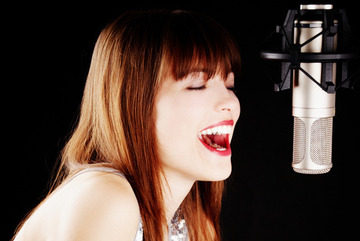
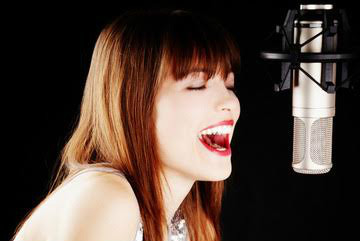
fixed home page category image issue

diff --git a/app/assets/stylesheets/welcome.scss b/app/assets/stylesheets/welcome.scss
@@ -18,6 +18,7 @@
   position: relative;
   background-repeat: no-repeat;
   background-size: cover;
+  background-position: center center;
   .course-category {
     position: absolute;
     left: 0;

diff --git a/app/controllers/courses_controller.rb b/app/controllers/courses_controller.rb
@@ -1,6 +1,6 @@
 class CoursesController < ApplicationController
   # Check instructor before all action except index.
-  before_filter :authenticate_user!, except: [:show]
+  before_filter :authenticate_user!, except: [:show, :category_courses]
   before_action :set_course, only: [:edit, :update, :show]
 
   def new
